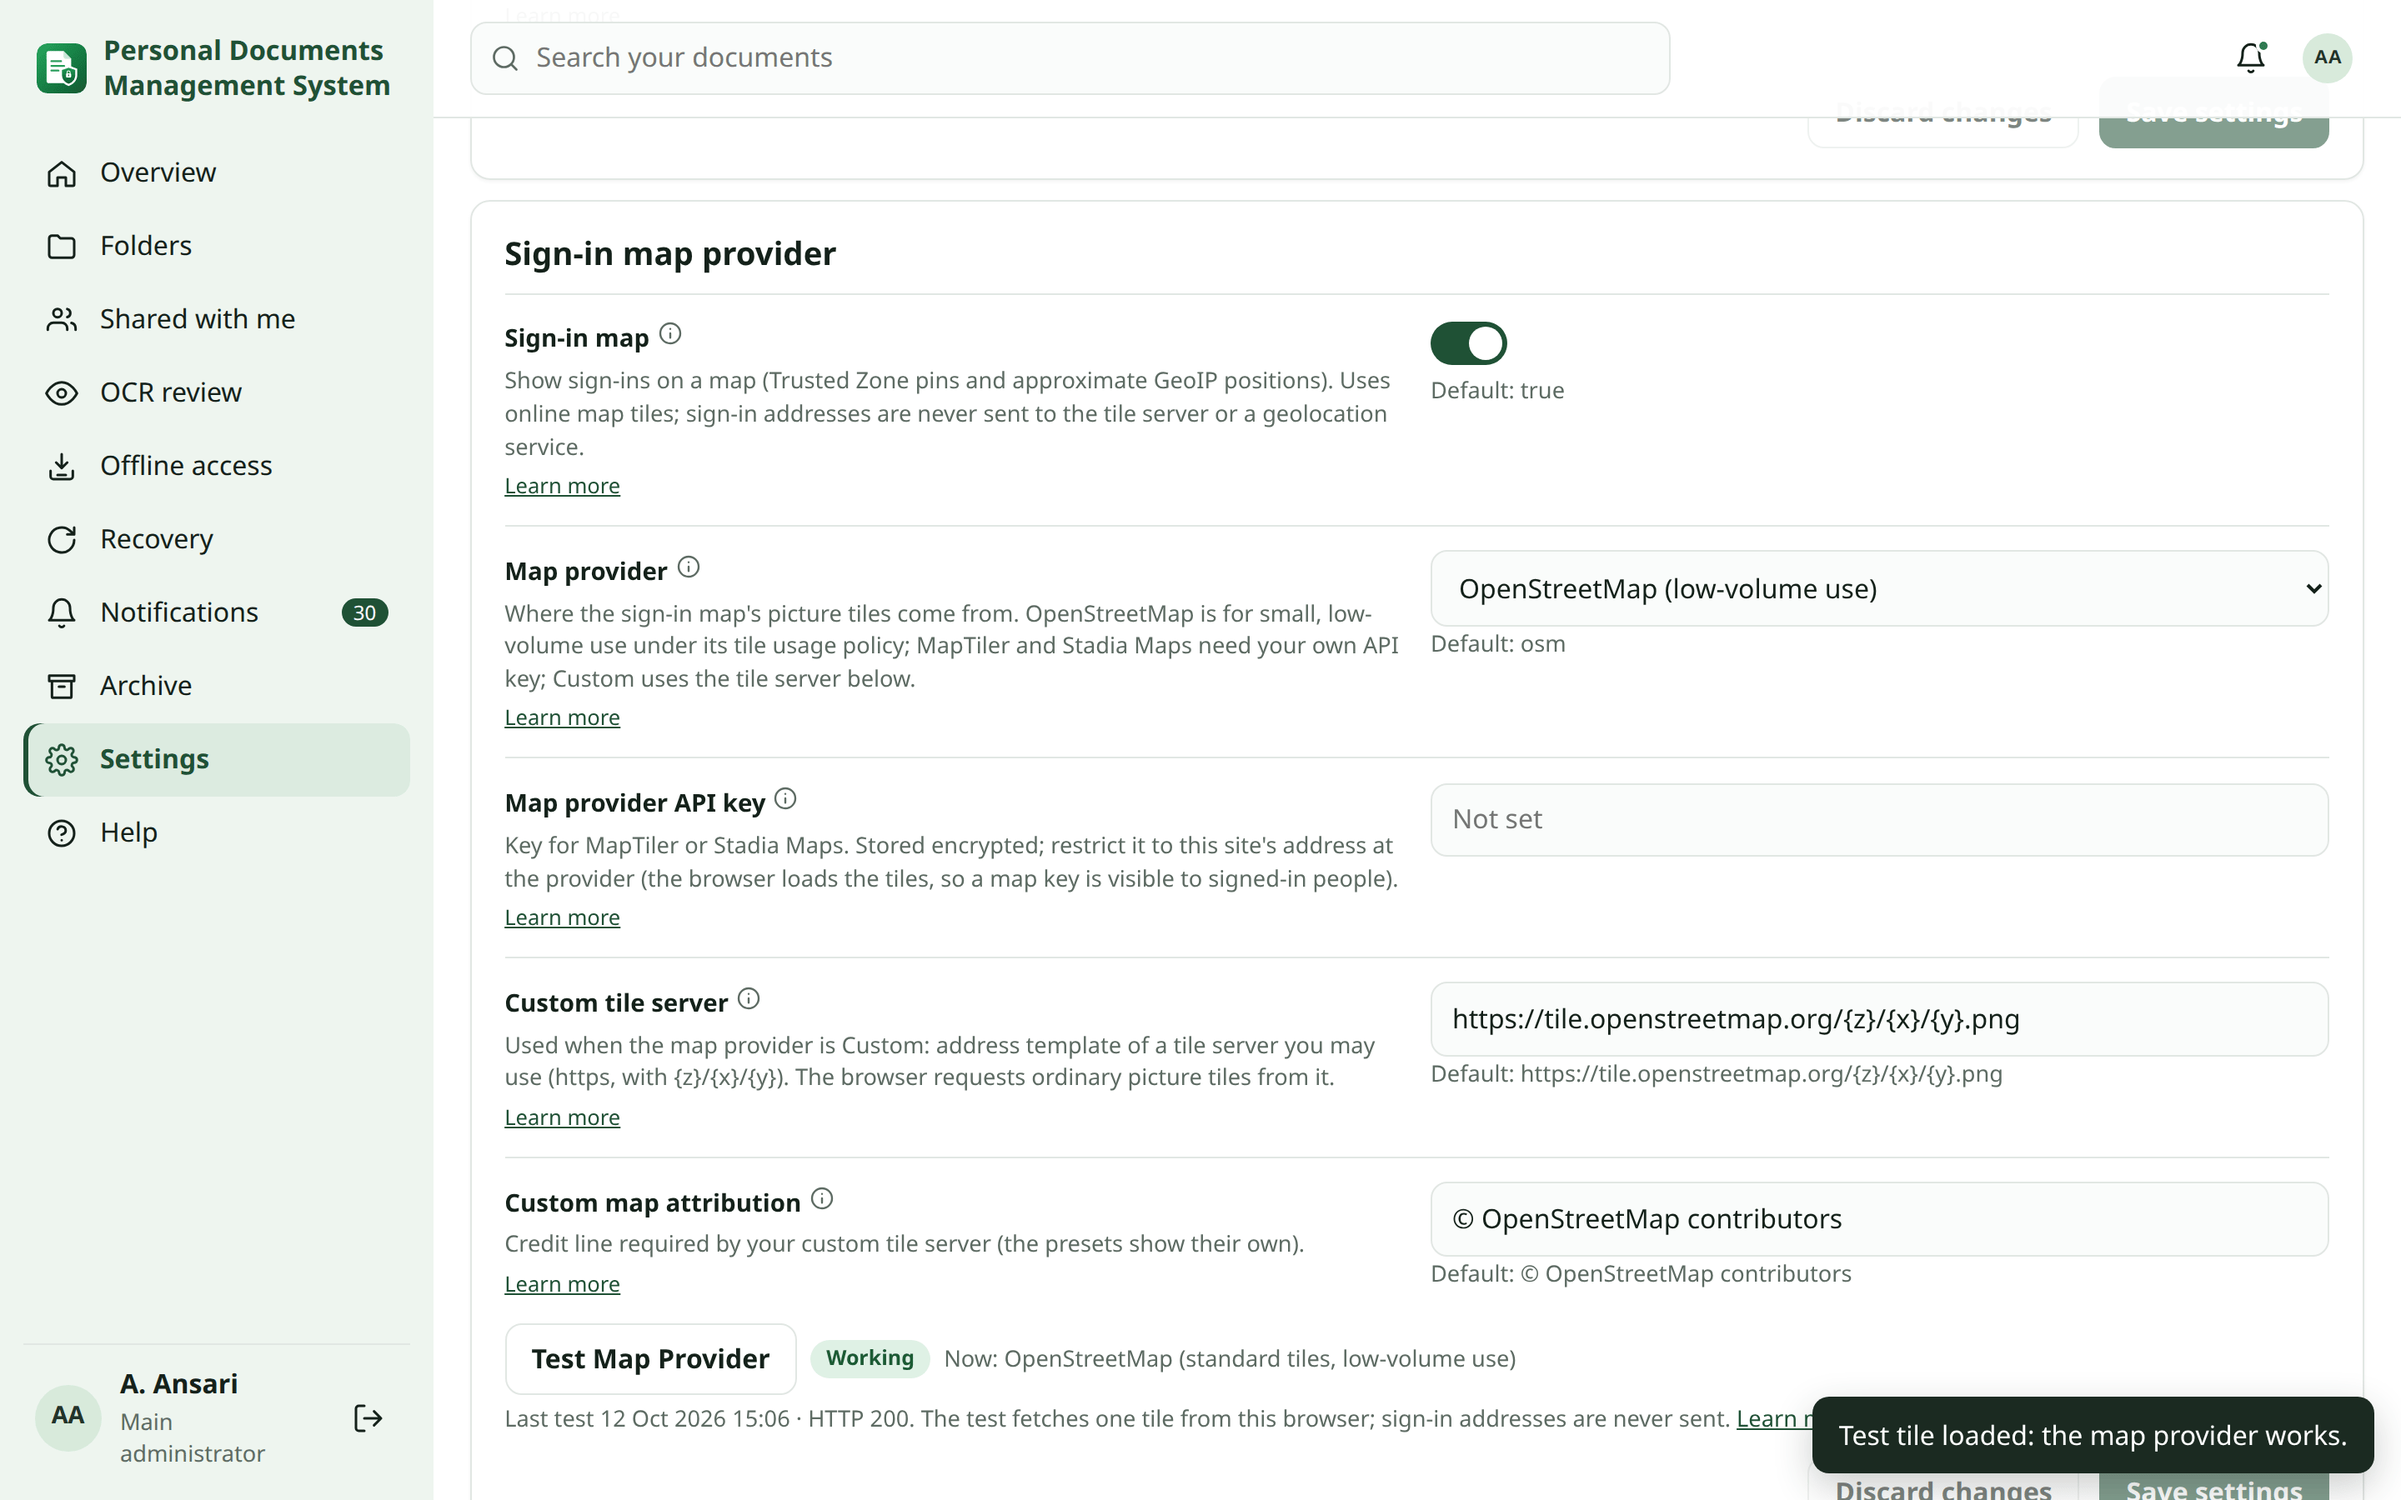
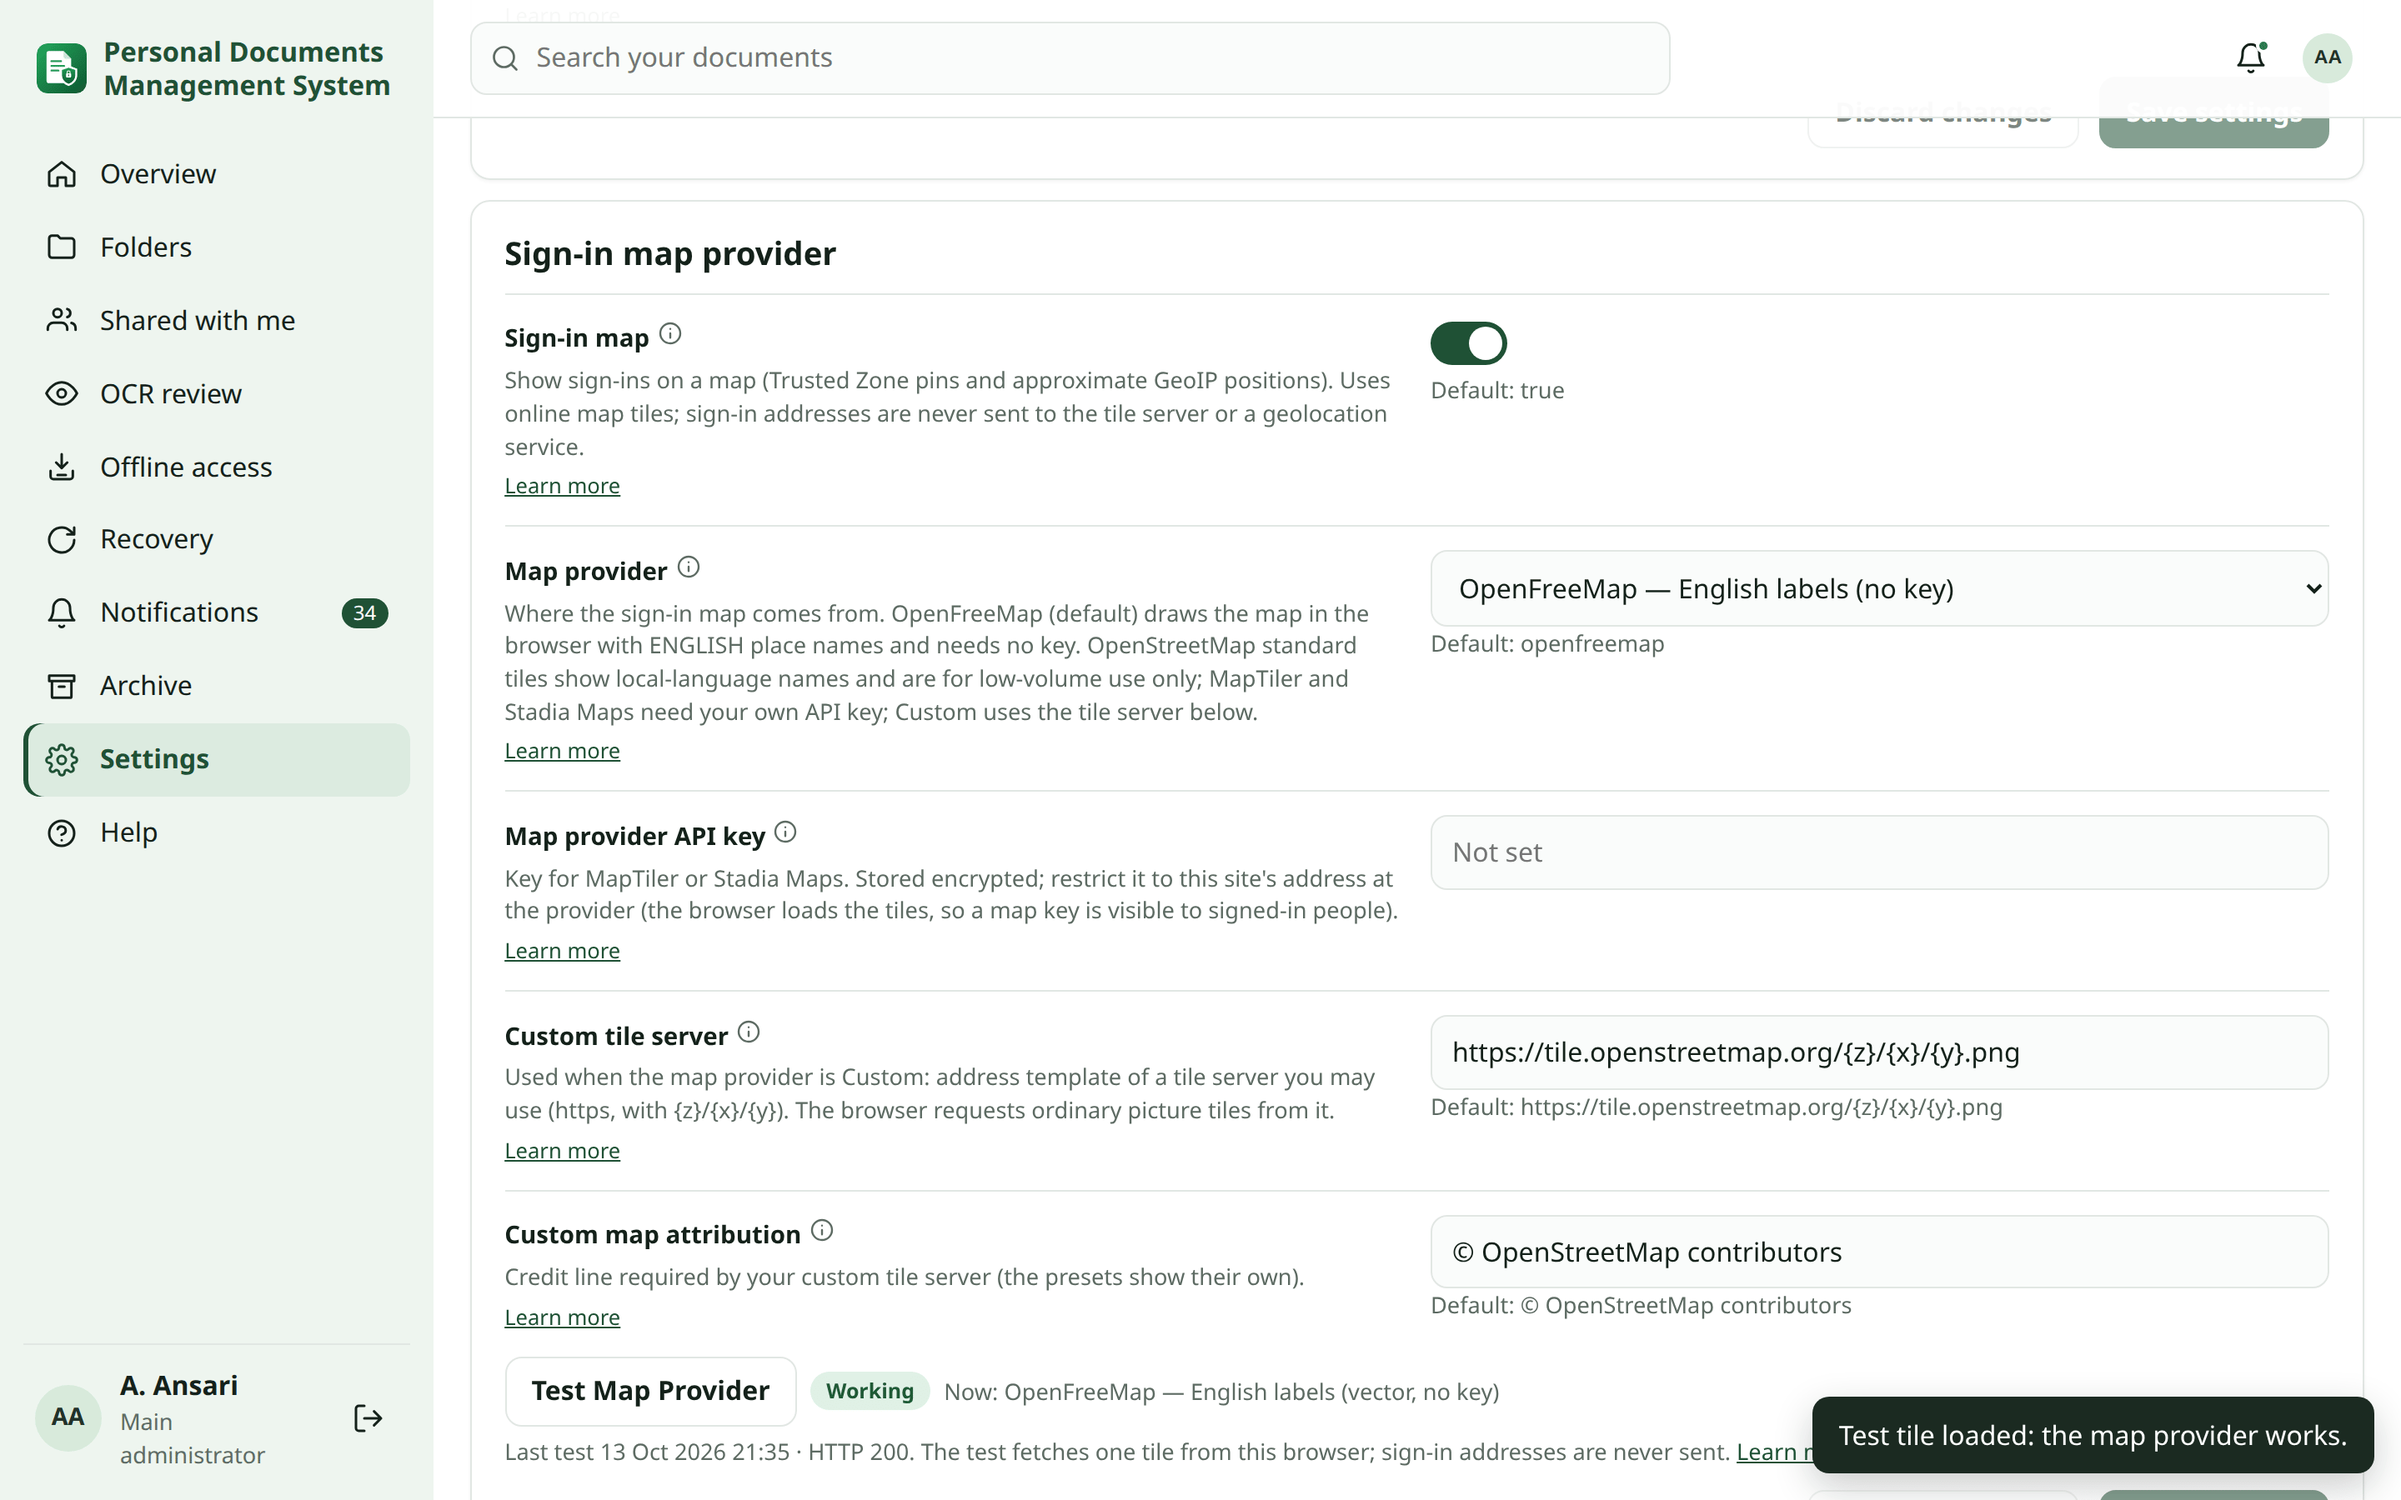
Change Set V: reviewed screenshots, test report, map privacy wording

diff --git a/backend/apps/security/mapprov.py b/backend/apps/security/mapprov.py
@@ -103,7 +103,7 @@ def public_config(user=None) -> dict:
            "kind": r["kind"], "style_url": r["url"] if vector else "", "english_labels": r["english"],
            "fallback_tile_url": OSM_URL if vector else "", "fallback_attribution": PRESETS["osm"]["attribution"] if vector else "",
            "tile_url": "" if vector else r["url"], "attribution": r["attribution"], "referrer_policy": REFERRER_POLICY,
-           "privacy": "The map loads ordinary picture tiles from the provider shown here. Your sign-in addresses are never "
+           "privacy": "The map loads ordinary map data (tiles) from the provider shown here. Your sign-in addresses are never "
                       "sent to it or to any geolocation service; positions come from Trusted Zone pins and this server's GeoIP database."}
     if enabled and not r["url"]:
         out["unavailable"] = "No map provider key is configured." if r["needs_key"] else "No tile address is configured."

diff --git a/docs/TEST_REPORT.md b/docs/TEST_REPORT.md
@@ -56,6 +56,61 @@ The end-to-end flow covers: the setup wizard creating the Main Administrator (de
 
 Screenshots of the real application with synthetic data are in `docs/screenshots/`.
 
+## Change set V: NAS in Backup Destinations, English sign-in map, tooltips, Help permissions, WhatsApp pairing {#change-set-v}
+
+**Numbering.** The change prompt numbered its tests AT-331…AT-350. Here they are **AT-356…AT-375** (prompt AT-n →
+AT-(n+25)). Per-scenario status: [TRACEABILITY.md](TRACEABILITY.md#change-set-v). Root causes:
+[IMPLEMENTATION_STATUS.md](IMPLEMENTATION_STATUS.md#change-set-v).
+
+**Environment.** Development container (Ubuntu 24.04, PostgreSQL 16, Python 3.13, Node 22, Chromium via Playwright
+with software WebGL), 2026-10-13. No WhatsApp phone, no SMB/NFS server and no production address. WhatsApp in the
+browser suites used `tests/fake_whatsapp_bridge.py`; the bridge's pairing logic is covered by its own unit tests with a
+fake socket. In `corrective.mjs` the OpenFreeMap style was answered locally; `screenshots.mjs` used the **real**
+OpenFreeMap service through the proxy (the English-labelled map in `security-signin-map.png`).
+
+| Command | Result |
+|---|---|
+| `npm test` in `bridge/whatsapp` (session manager, fake socket) | **10 passed** |
+| `pytest tests/test_corrective_v.py` | **34 passed** |
+| Full `pytest` | PYTEST_RESULT |
+| `scripts/e2e.sh` (fresh database, final run) | **155 PASS, 0 FAIL** (exit 0): flow; accessibility in every theme; parity and layout (7 viewports, incl. the new Destinations and sign-in screens); offline 9; PWA 4; themes 6; recovery 10; **corrective 29** (incl. Change Set V: Storage & NAS redirect, NAS fields in the destination, Backup Now + FIFO queue, tooltips in table/dialog/phone, Help for a family member, English vector map, markers/clusters/details/filters, WhatsApp countdown/stages/failure/new QR/verified, diagnostics); **screenshots 8** |
+| `npm run build` (TypeScript check and production build) | Passed |
+| `python3 scripts/check_docs.py` | **OK** |
+| `scripts/privacy_check.sh` | **OK** |
+| `shellcheck -S error scripts/personaldocs scripts/e2e.sh` (as in `scripts/verify.sh`) | **OK** |
+
+**Live WhatsApp evidence (no phone).** Bridge 1.1.0 against the real WhatsApp servers from this container: QR codes
+were issued, one link attempt stayed open for 300 s (11 codes; WhatsApp closed the QR connection with 408 after
+162 s and the bridge reopened it inside the same attempt), then ended as *link expired*. Diagnostics: DNS, network,
+clock and storage OK.
+
+**Defects found while testing, all fixed:**
+
+- Administrator console commands (`sudo …`) were visible to family members in seven everyday guides → moved into
+  main-administrator sections; a test now fails on any `sudo` line a family member can read.
+- A destination at exactly 20 % free space was not *Warning* → thresholds are inclusive.
+- A person's first WhatsApp link attempt did not count towards the hourly limit → counted.
+- A backup job waiting for a later retry blocked the whole FIFO queue → only due jobs hold the queue.
+- **The Content-Security-Policy origin for the map was cached per server worker for a minute**, so after the
+  provider changed, other workers still blocked the new provider (*Map unavailable*). Found by the browser suite (the
+  map failed only on pages served by the second worker) → every worker re-reads the map settings (one small query) and
+  follows a change at once; regression test added.
+- The sign-in map filters rendered as five full-width stacked selects → one compact, wrapping row.
+
+**Blocked / Not Executed (never reported as passed):**
+
+| Scenario | Why |
+|---|---|
+| AT-369 (prompt AT-344) real phone pairing, scan, verification message, restart restoration | No phone or WhatsApp account available |
+| Real multi-phone isolation and real post-link test message (parts of AT-371, AT-372) | Same |
+| Mounting a real SMB or NFS share (part of AT-358) | No NAS; mounting is tested with the faked root helper |
+| OpenFreeMap from the production address | No production address; tested from this container through the proxy |
+| Firefox and Safari | Chromium only |
+
+**Note.** The muted privacy line under the map was reworded after the final screenshots were taken
+(*ordinary map data (tiles)* instead of *ordinary picture tiles*); `security-signin-map.png` still shows the old
+wording.
+
 ## Change set U: corrective fixes for the folder tree, sign-in map, sign-in designs, WhatsApp and Discord {#change-set-u}
 
 **Numbering.** The change prompt numbered its tests AT-311…AT-330. Here they are **AT-336…AT-355** (prompt AT-n →
